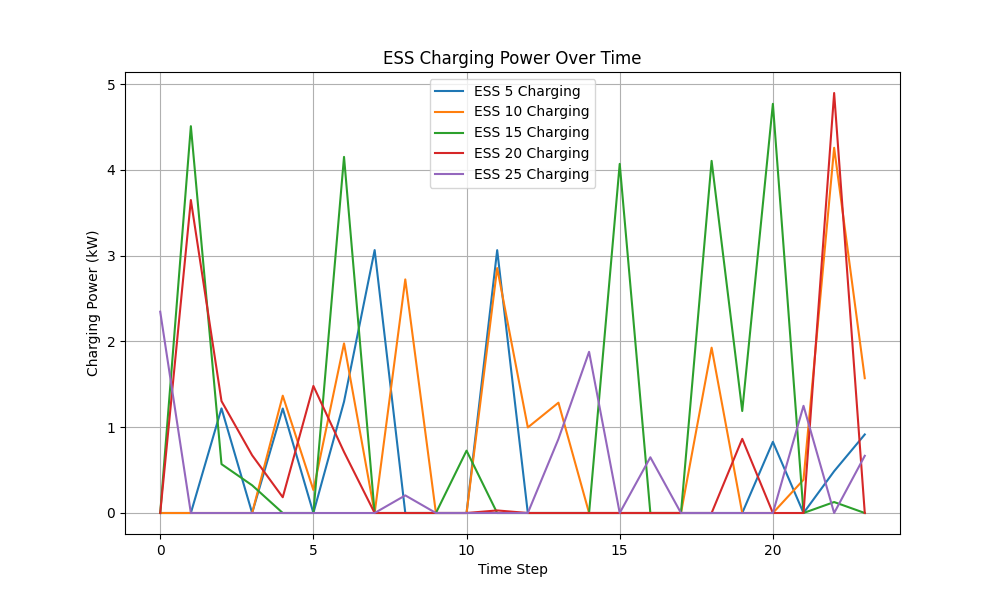
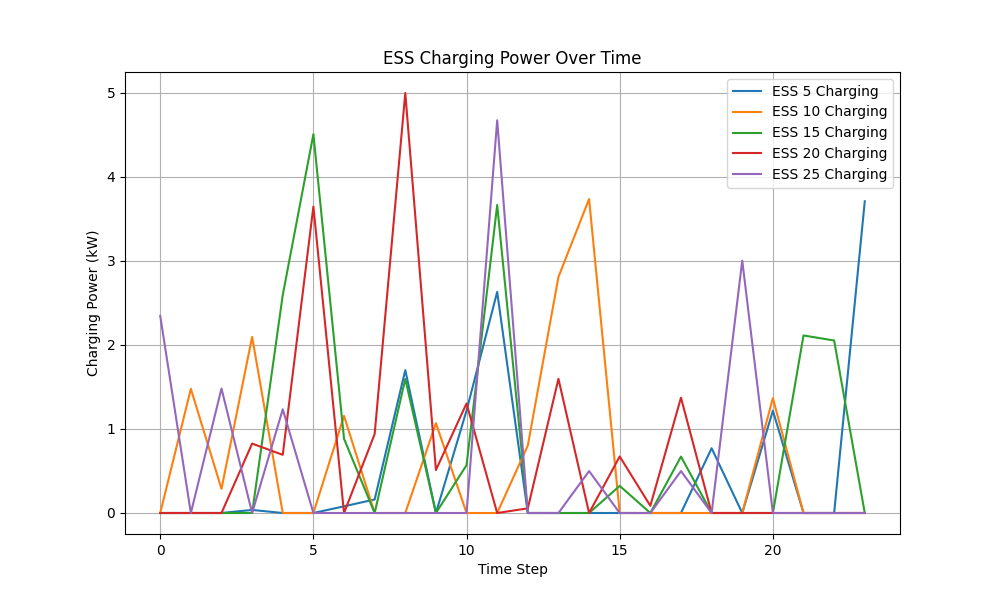
Fix the environment for distributed mode

Changed region(s): [[0.093, 0.12, 0.899, 0.87]]

diff --git a/MADRL/environments/flex_provision/flexibility_provision_env.py b/MADRL/environments/flex_provision/flexibility_provision_env.py
@@ -11,10 +11,9 @@ def convert(dictionary):
     return namedtuple('GenericDict', dictionary.keys())(**dictionary)
 
 class ActionSpace(object):
-    def __init__(self, low, high, size):
+    def __init__(self, low, high):
         self.low = low
         self.high = high
-        self.size = size
 
 class FlexibilityProvisionEnv(MultiAgentEnv):
     """this class is for the environment of decentralized flexibility provision
@@ -59,15 +58,11 @@ class FlexibilityProvisionEnv(MultiAgentEnv):
         self.episode_limit = args.episode_limit
         self.history = args.history
     
-        self.init_action_space()
+        self.action_space = ActionSpace(low=self.args.action_low, high=self.args.action_high)
         self.n_agents = len(self.base_powergrid['buildings'])
+        self.n_actions = 4  # P_red, P_esc, P_esd, Q_pv for each building
         self.agent_ids = self.base_powergrid['buildings']  # Agent IDs equal to bus IDs with buildings
         self.reset()
-
-    def init_action_space(self):
-        num_buildings = len(self.base_powergrid['buildings'])
-        action_size = num_buildings * 4  # P_red, P_esc, P_esd, Q_pv for each building
-        self.action_space = ActionSpace(low=self.args.action_low, high=self.args.action_high, size=action_size)
 
     def reset(self):
         self.steps = 0
@@ -91,15 +86,11 @@ class FlexibilityProvisionEnv(MultiAgentEnv):
     def step(self, actions):
         num_buildings = len(self.base_powergrid['buildings'])
         
-        # Scale actions based on the provided env_args
         percentage_reduction = {self.base_powergrid['buildings'][i]: self.args.max_power_reduction * actions[i] for i in range(num_buildings)}
         ess_charging = {self.base_powergrid['ESSs_at_buildings'][i]: self.args.p_ch_max * actions[num_buildings + i] for i in range(num_buildings)}
         ess_discharging = {self.base_powergrid['ESSs_at_buildings'][i]: self.args.p_dis_max * actions[2 * num_buildings + i] for i in range(num_buildings)}
-        # q_pv = {self.base_powergrid['PVs_at_buildings'][i]: actions[3 * num_buildings + i] for i in range(num_buildings)}
-
-        # Compute the current active power for PVs
-        pv_active_power = {g: self.current_pv_power[g] for g in self.base_powergrid['PVs_at_buildings']}
-
+        q_pv = {self.base_powergrid['PVs_at_buildings'][i]: self._scale_and_clip_q_pv(actions[3 * num_buildings + i], self.current_pv_power[self.base_powergrid['PVs_at_buildings'][i]]) for i in range(len(self.base_powergrid['PVs_at_buildings']))}
+        
         # Clip the power reduction percentages to be within the allowed range
         percentage_reduction = self.clip_percentage_reduction(percentage_reduction)
         
@@ -109,11 +100,6 @@ class FlexibilityProvisionEnv(MultiAgentEnv):
         # Adjust ESS actions to prevent simultaneous charging and discharging
         ess_charging, ess_discharging = self.adjust_ess_actions(ess_charging, ess_discharging)
 
-        # Clip the reactive power for PVs using the scaling and clipping function
-        q_pv = {}
-        for g in self.base_powergrid['PVs_at_buildings']:
-            q_pv[g] = self._scale_and_clip_q_pv(actions[3 * num_buildings + self.base_powergrid['PVs_at_buildings'].index(g)], pv_active_power[g])
-
         for k in ess_charging:
             ess_charging[k], ess_discharging[k] = self._clip_power_charging_discharging(ess_charging[k], ess_discharging[k], self.current_ess_energy[k])
 
@@ -122,7 +108,7 @@ class FlexibilityProvisionEnv(MultiAgentEnv):
             self.current_active_demand,
             self.current_reactive_demand,
             power_reduction,
-            pv_active_power,
+            self.current_pv_power,
             q_pv,
             ess_charging,
             ess_discharging,
@@ -174,21 +160,28 @@ class FlexibilityProvisionEnv(MultiAgentEnv):
         return state
     
     def get_obs(self):
-        """ Returns the list of observations for all agents. """
-        obs = [self.get_obs_agent(bus_id) for bus_id in self.agent_ids]
-        return obs
+        """Returns the list of observations for all agents."""
+        agents_obs = []
+        
+        for i in range(self.n_agents):
+            obs = []
+            building = self.agent_ids[i]
+            obs.append(self.current_active_demand[building])
+            obs.append(self.current_reactive_demand[building])
+            obs.append(self.current_pv_power[building])
+            obs.append(self.current_voltage[building])
+            obs.append(self.current_price[0])
+            obs.append(self.current_ess_energy[building])
+            
+        agents_obs.append(np.array(obs))
+        
+        return agents_obs
 
-    def get_obs_agent(self, bus_id):
+    def get_obs_agent(self, agent_id):
         """Returns the observation for a specific agent."""
-        observation = [
-            self.current_active_demand[bus_id],
-            self.current_reactive_demand[bus_id],
-            self.current_pv_power[bus_id],
-            self.current_voltage[bus_id],
-            self.current_price[0],
-            self.current_ess_energy[bus_id]
-        ]
-        return np.array(observation)
+        # Find the index of the bus that corresponds to the agent_id
+        agent_index = self.agent_ids.index(agent_id)
+        return self.get_obs()[agent_index]
     
     def _select_start_hour(self):
         """select start hour for an episode
@@ -386,15 +379,16 @@ class FlexibilityProvisionEnv(MultiAgentEnv):
     def get_state_size(self):
         return self.get_state().shape[0]
 
-    def get_avail_agent_actions(self, agent_id):
-        """Return the available actions for agent_id"""
-        return [1] * self.action_space.size
-
     def get_avail_actions(self):
-        return [self.get_avail_agent_actions(i) for i in range(self.n_agents)]
+        """Return available actions for all agents."""
+        return np.array([self.get_avail_agent_actions(agent_id) for agent_id in range(self.n_agents)])
+
+    def get_avail_agent_actions(self, agent_id):
+        """Return the available actions for agent_id."""
+        return [1] * self.n_actions  # Each agent has access to its set of actions
 
     def get_total_actions(self):
-        return self.action_space.size
+        return self.n_actions
     
     def get_num_of_agents(self):
         """return the number of agents"""

diff --git a/run_env.py b/run_env.py
@@ -37,7 +37,17 @@ env_config_dict["data_path"] = "/".join(data_path)
 env = FlexibilityProvisionEnv(env_config_dict)
 
 n_agents = env.get_num_of_agents()
-n_actions = env.get_total_actions()
+n_actions = env.get_total_actions()   
+obs_size = env.get_obs_size()
+state_size = env.get_state_size()
+avail_actions = env.get_avail_actions()
+
+# Log environment details
+logger.info(f"Number of agents: {n_agents}")
+logger.info(f"Total number of actions: {n_actions}")
+logger.info(f"Observation size: {obs_size}")
+logger.info(f"State size: {state_size}")
+logger.info(f"Available actions for agents: {avail_actions}")
 
 n_episodes = 1
 

diff --git a/train.py b/train.py
@@ -28,7 +28,7 @@ with open("./MADRL/args/default.yaml", "r") as f:
 # load alg args
 with open("./MADRL/args/alg_args/" + argv.alg + ".yaml", "r") as f:
     alg_config_dict = yaml.safe_load(f)["alg_args"]
-    alg_config_dict["action_low"] = env_config_dict.get("action_low", -1.0)
+    alg_config_dict["action_low"] = env_config_dict.get("action_low", 0.0)
     alg_config_dict["action_high"] = env_config_dict.get("action_high", 1.0)
     alg_config_dict["action_bias"] = env_config_dict.get("action_bias", 0.0)  
     alg_config_dict["action_scale"] = env_config_dict.get("action_scale", 1.0)
